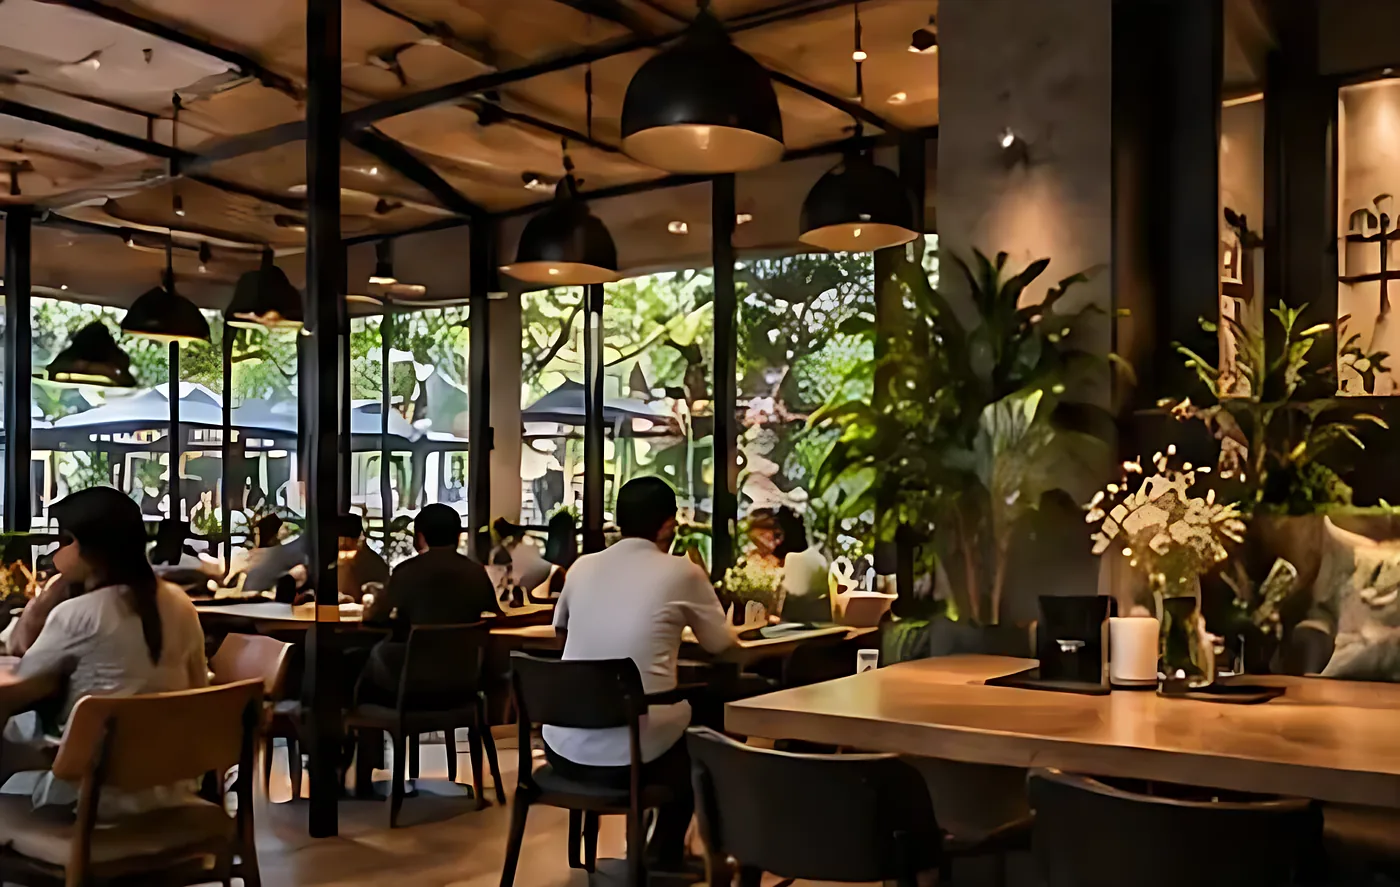
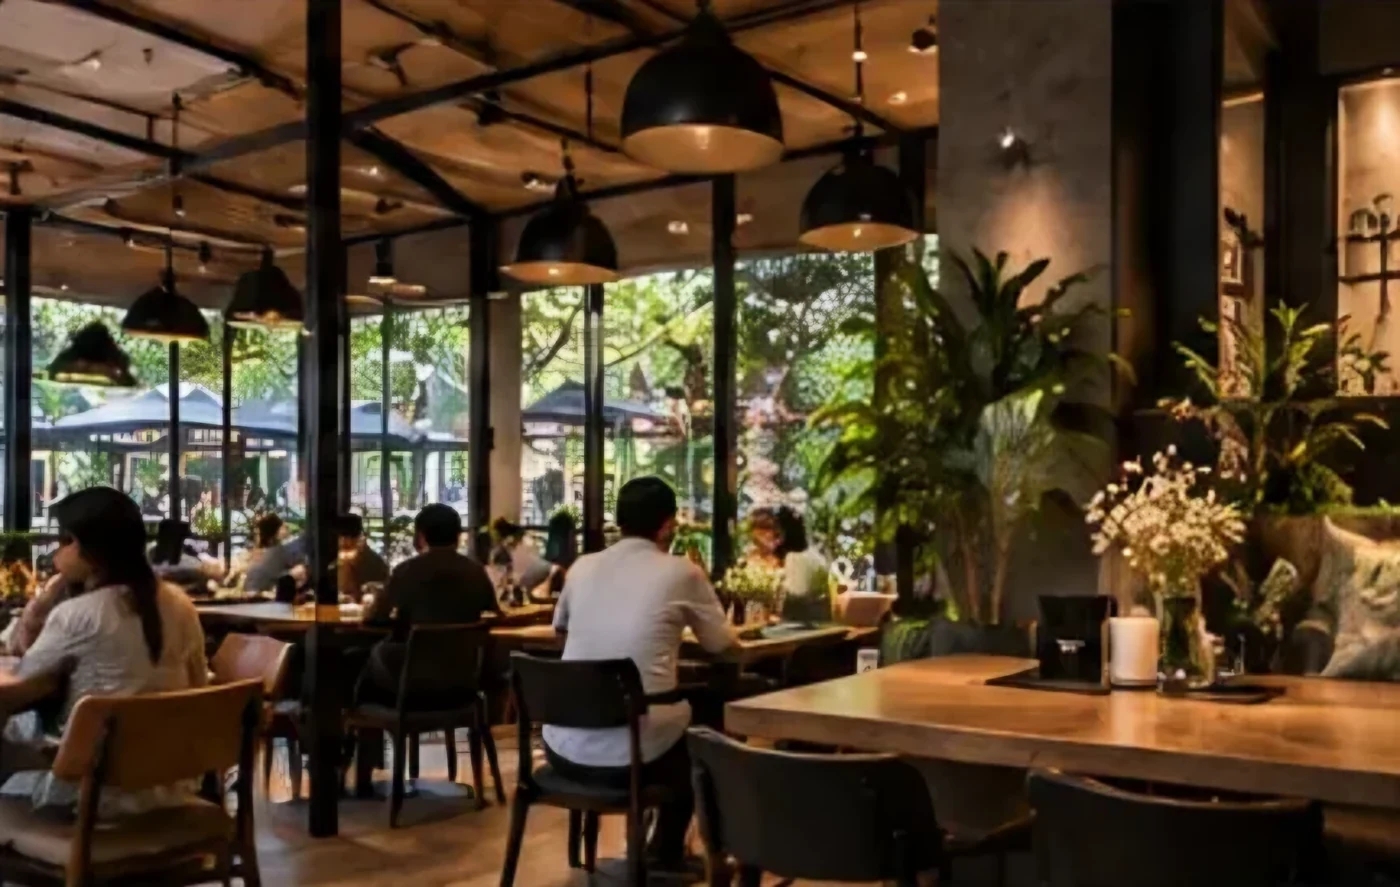
Inside photos: natural instead of painted, right size on retina
- Real-ESRGAN at full strength made the photos look painted: faces smeared,
  foliage and textures turned to flat patches. The model is now blended
  with its no-denoise variant (realesr-general-wdn-x4v3, at 0.3, like
  Real-ESRGAN's --denoise_strength) and only 35% of its output is laid over
  a plain Lanczos resize of the original; WebP quality 88 instead of 82
- sizes is now the width each photo is really drawn at: object-fit: cover
  draws a wide photo in a tall tile far wider than the tile, so retina
  screens were getting the 1400 px file stretched on the big tiles

Claude-Session: https://claude.ai/code/session_01QaXK2Je5FgTpLw5365VfUd

diff --git a/components/brewns/initBrewns.ts b/components/brewns/initBrewns.ts
@@ -1075,13 +1075,26 @@ inview($(".ftr-giant"), { opacity: 0, y: 80 }, { opacity: 1, y: 0 }, { config: C
   // Each photo comes in two sizes (scripts/upscale-photos.py): 1400 px for the
   // page, 2400 px for big screens and the viewer. The browser picks per tile.
   const hiRes = (src) => src.replace(/(@2x)?\.webp(\?.*)?$/, "@2x.webp");
+  // `sizes` is the width the photo is drawn at: object-fit: cover in a tall tile
+  // draws a wide photo much wider than the tile, then the hover zoom adds 11%.
+  const fitSizes = () =>
+    tiles.forEach((t) => {
+      const img = $("img", t);
+      if (!img.naturalWidth) return;
+      const r = t.getBoundingClientRect();
+      const drawn = Math.max(r.width, (r.height * img.naturalWidth) / img.naturalHeight) * 1.11;
+      img.sizes = `${Math.ceil(drawn)}px`;
+    });
   tiles.forEach((t) => {
     const img = $("img", t);
     const src = img.getAttribute("src");
     const tile = t.parentElement;
     img.srcset = `${src} 1400w, ${hiRes(src)} 2400w`;
     img.sizes = tile.matches(".big, .wide") ? "(min-width: 1100px) 38vw, (min-width: 800px) 50vw, 100vw" : "(min-width: 1100px) 19vw, (min-width: 800px) 25vw, 50vw";
+    if (img.complete) fitSizes();
+    else img.addEventListener("load", fitSizes, { once: true });
   });
+  window.addEventListener("resize", fitSizes);
 
   /* ── right now: open or closed, how busy it usually is, what's there ── */
   // Typical busyness by hour, 07:00–20:00 (0–100). Weekends run later.

diff --git a/scripts/upscale-photos.py b/scripts/upscale-photos.py
@@ -3,6 +3,12 @@ Sharpens photos with Real-ESRGAN (realesr-general-x4v3, BSD-3-Clause, by
 Xintao Wang et al.), a small network made for real-world photos: soft focus,
 upscaling blur and compression artefacts.
 
+Used at full strength it paints: faces smear and textures turn to flat
+patches. So its weights are blended with the no-denoise variant
+(realesr-general-wdn-x4v3) at DENOISE, as Real-ESRGAN's own
+--denoise_strength does, and only MIX of its output is laid over a plain
+Lanczos resize of the original. Edges get crisper, the photo stays a photo.
+
 It needs no PyTorch: the weights are read straight from the .pth file, the
 network (SRVGGNetCompact) is rebuilt as an ONNX graph, and ONNX Runtime runs
 it on the CPU.
@@ -30,9 +36,11 @@ from onnx import TensorProto, helper, numpy_helper
 from PIL import Image, ImageFilter
 
 ROOT = Path(__file__).resolve().parent.parent
-WEIGHTS_URL = "https://github.com/xinntao/Real-ESRGAN/releases/download/v0.2.5.0/realesr-general-x4v3.pth"
+WEIGHTS_URL = "https://github.com/xinntao/Real-ESRGAN/releases/download/v0.2.5.0/{}.pth"
 CACHE = ROOT / "tools" / "upscale"
 SIZES = {"": 1400, "@2x": 2400}
+DENOISE = 0.3  # 1 = realesr-general-x4v3 alone (painterly), 0 = the wdn model alone
+MIX = 0.35  # share of the network's output over the Lanczos resize
 TILE, PAD = 192, 12
 
 
@@ -98,12 +106,17 @@ def build_onnx(sd, upscale=4):
 
 def session():
     CACHE.mkdir(parents=True, exist_ok=True)
-    pth, onx = CACHE / "realesr-general-x4v3.pth", CACHE / "realesr-general-x4v3.onnx"
+    onx = CACHE / f"realesr-general-x4v3-dn{DENOISE}.onnx"
     if not onx.exists():
-        if not pth.exists():
-            print("downloading the model (5 MB)…")
-            urllib.request.urlretrieve(WEIGHTS_URL, pth)
-        onnx.save(build_onnx(load_pth(pth)), onx)
+        weights = []
+        for name in ("realesr-general-x4v3", "realesr-general-wdn-x4v3"):
+            pth = CACHE / f"{name}.pth"
+            if not pth.exists():
+                print(f"downloading {name} (5 MB)…")
+                urllib.request.urlretrieve(WEIGHTS_URL.format(name), pth)
+            weights.append(load_pth(pth))
+        full, wdn = weights
+        onnx.save(build_onnx({k: DENOISE * full[k] + (1 - DENOISE) * wdn[k] for k in full}), onx)
     return ort.InferenceSession(str(onx), providers=["CPUExecutionProvider"])
 
 
@@ -134,13 +147,15 @@ def main():
         keep = originals / p.name
         if not keep.exists():
             shutil.copy2(p, keep)
-        src = Image.open(keep)
+        src = Image.open(keep).convert("RGB")
         big = upscale(sess, src)
         for suffix, width in SIZES.items():
             h = round(big.height * width / big.width)
-            im = big.resize((width, h), Image.LANCZOS).filter(ImageFilter.UnsharpMask(radius=1.2, percent=35, threshold=2))
+            plain = src.resize((width, h), Image.LANCZOS)
+            im = Image.blend(plain, big.resize((width, h), Image.LANCZOS), MIX)
+            im = im.filter(ImageFilter.UnsharpMask(radius=1.0, percent=30, threshold=2))
             dest = folder / f"{p.stem}{suffix}.webp"
-            im.save(dest, "WEBP", quality=82, method=6)
+            im.save(dest, "WEBP", quality=88, method=6)
             print(f"{dest.relative_to(ROOT)}  {width}x{h}  {dest.stat().st_size // 1024} KB")
 
 

diff --git a/README.md b/README.md
@@ -162,14 +162,14 @@ It cuts each dish out of its background, centres it on a white 1000 px square wi
 
 ### Sharper photos
 
-The Inside brewns photos are sharpened with Real-ESRGAN (`realesr-general-x4v3`), which recovers edges and removes blur and compression artefacts. It runs on the CPU with ONNX Runtime, no PyTorch or GPU needed:
+The Inside brewns photos are sharpened with Real-ESRGAN (`realesr-general-x4v3`), which recovers edges and removes blur and compression artefacts. At full strength it makes photos look painted (smeared faces, flat patches), so the script tones it down: the model is blended with its no-denoise variant (`DENOISE`) and only part of its output (`MIX`) is laid over a plain resize of the original. It runs on the CPU with ONNX Runtime, no PyTorch or GPU needed:
 
 ```bash
 pip install onnx onnxruntime pillow numpy
 python scripts/upscale-photos.py public/assets/locations/inside
 ```
 
-Each photo gets two sizes: `<name>.webp` (1400 px, for the page) and `<name>@2x.webp` (2400 px, for big screens and the full-screen viewer); the page picks the right one with `srcset`. Originals are kept in `assets-src/`. Sharpening can't fix what isn't in the photo, such as misspelled signage in AI-made images.
+Each photo gets two sizes: `<name>.webp` (1400 px, for the page) and `<name>@2x.webp` (2400 px, for big screens and the full-screen viewer); the page picks the right one with `srcset`. Originals are kept in `assets-src/`. Sharpening can't add detail the photo doesn't have: for crisper photos, put larger originals (2400 px wide or more) in `assets-src/locations/inside/` and run the script again. It can't fix misspelled signage in AI-made images either.
 
 ### Bag and cup pictures
 
